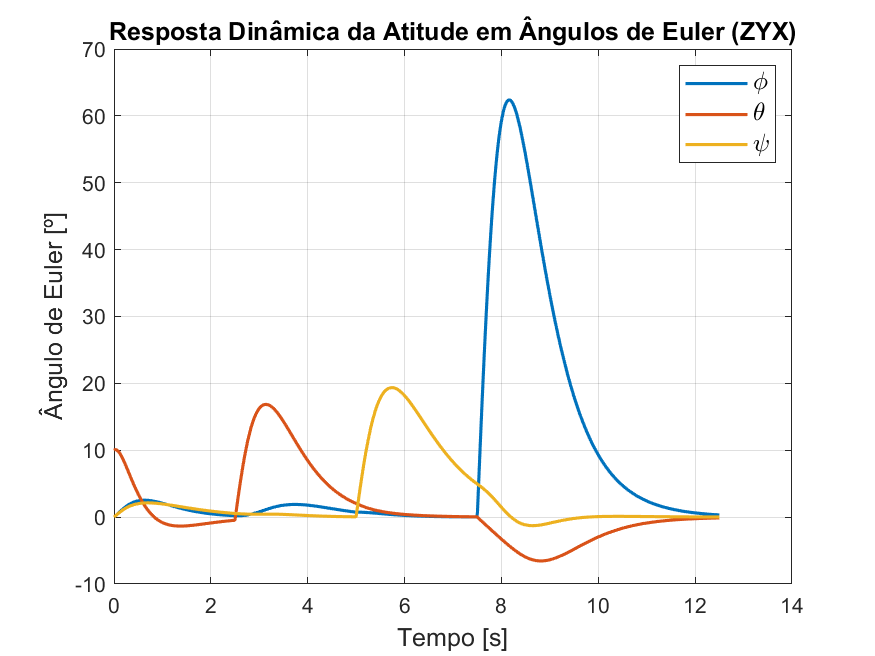
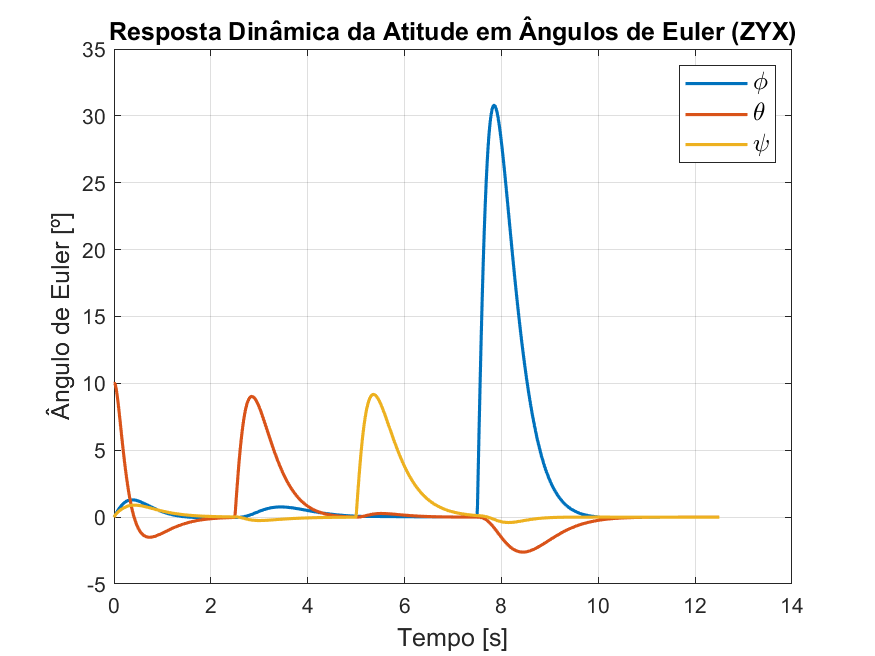
Figuras observador atualizadas

diff --git a/Simulink/controlabilidade_observabilidade.m b/Simulink/controlabilidade_observabilidade.m
@@ -2,9 +2,9 @@
 A = [0., 0., 0., 0.5, 0., 0.;
  0., 0., 0., 0., 0.5, 0.;
  0., 0., 0., 0., 0., 0.5;
- 78.1896, 0., 0., -0.00129272, 0., 0.;
- 0., 78.1896, 0., 0., -0.00129272, 0.;
- -264.624, -264.624, 0., 0., 0., -0.00437508];
+ 209.258, 0., 0., -0.00129272, 0., 0.;
+ 0., 209.258, 0., 0., -0.00129272, 0.;
+ 0, 0, 0., 0., 0., -0.00437508];
 B = [0.	0.	0.;
 0.	0.	0.;
 0.	0.	0.;
@@ -19,6 +19,7 @@ E = B;
 
 %% Matriz de Controlabilidade
 Q = ctrb(A,B);
+Q_ESC = rref(Q)
 posto_Q = rank(Q);
 
 if posto_Q == size(A,1)
@@ -33,6 +34,7 @@ end
 
 %% Matriz de Observabilidade
 N = obsv(A,C);
+N_ESC = rref(N)
 posto_N = rank(N);
 
 if posto_N == size(A,1)

diff --git a/Simulink/control_techniques.m b/Simulink/control_techniques.m
@@ -31,7 +31,7 @@ P = pole(sys_cont);
 %% Alocação de Polos
 p = [-4,-4 + 1j,-4-1j,-2.5,-2.5+1j,-2.5-1j];
 % K = place(A,B,p);
-
+% 
 
 
 
@@ -43,7 +43,7 @@ Q = [5,0,0,0,0,0;
     0,0,0,0,0.001,0;
     0,0,0,0,0,0.001]*1e-1;
 R = 20*eye(3,3);
-% K = lqr(sys_cont,Q,R);
+K = lqr(sys_cont,Q,R);
 %% Simulação
 sys_lin = ss(A-B*K,E,C,D);
 t = linspace(0,12,1200);

diff --git a/Simulink/state_observer.m b/Simulink/state_observer.m
@@ -18,10 +18,10 @@ B2 = V*B;
 % p_obs = [-5,-5+1j,-5-1j]; %PP
 p_obs = [-11,-11+j,-11-j];%LQR
 
-% J = place(A22.',A12.',p_obs);
-Q_obs =diag([5,9,7]);
-R_obs = eye(3,3);
-J = lqr(A22.',A12.',Q_obs,R_obs);
+J = place(A22.',A12.',p_obs);
+% Q_obs =diag([5,9,7]);
+% R_obs = eye(3,3);
+% J = lqr(A22.',A12.',Q_obs,R_obs);
 
 F = A22 - J*A12;
 eig(F)
